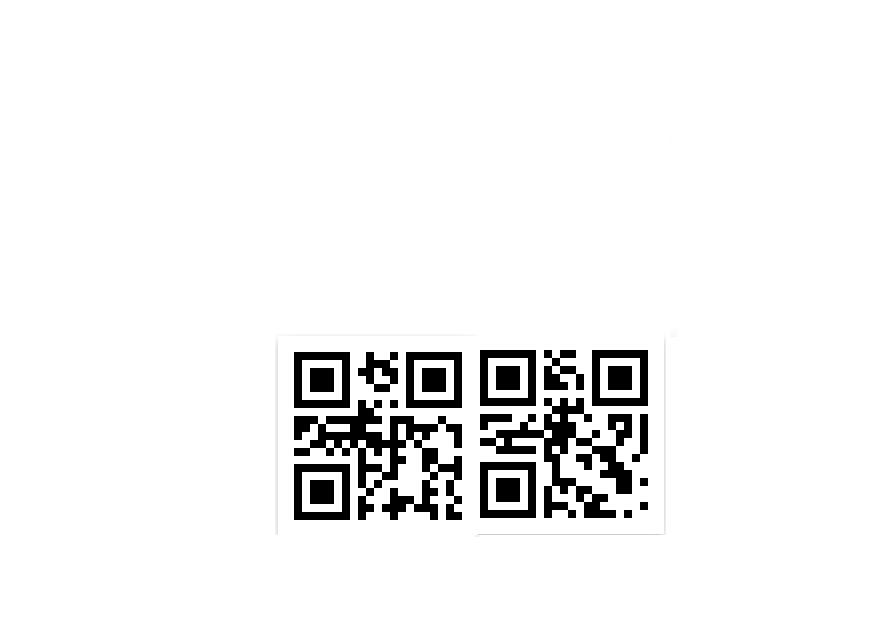
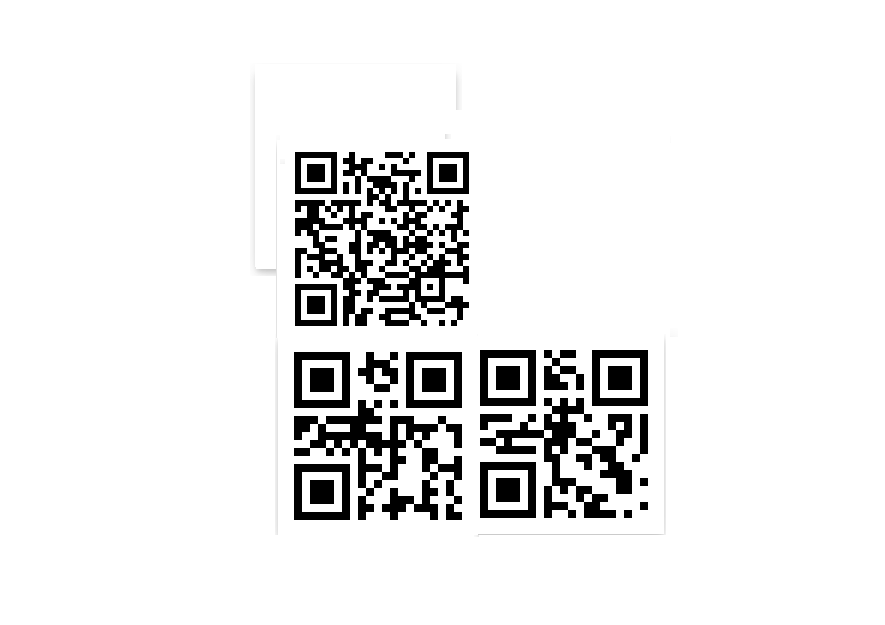
att corrigi verificacao de multiplosqr

Changed region(s): [[0.2746, 0.2432, 0.5492, 0.5472]]

diff --git a/camera.py b/camera.py
@@ -1,10 +1,12 @@
-from collections import namedtuple
+from ctypes import resize
+from os import closerange
 import cv2
+from numpy.core.numeric import isclose
 from pyzbar.pyzbar import decode
 import json
 import numpy as np
 
-banco = [({'end': 0, 'e': 25}, {'p': 1, 'e': 25})]
+banco = ({'end': 0, 'e': 21}, {'p': 10, 'e': 21})
 validado = []
 naoValido = []
 
@@ -26,30 +28,56 @@ def lerqr(x,height,width):
             qr = json.loads(barcodeData)
             qrEnd = 'end' in qr
             qrProd = 'p' in qr
-            if leituraArea: 
-                if qrEnd and qr not in leituraEndereco:
-                    leituraEndereco.append(qr) 
-                elif  qrProd and qr not in leituraProduto and leituraEndereco !=[]:
-                    leituraProduto.append(qr) 
-
-                if qrProd and len(decode(img)) == 1:
-                    leituraEndereco.clear()
-                    validado.clear()
-                elif qrEnd and len(decode(img)) == 1:
-                    leituraProduto.clear()
-                    validado.clear()
-                
-                elif len(decode(img)) == 2:
-                    area.clear()
-                    if len(decode(img)) == 2 and area == []:
-                        print('validado')
-                        valor = (leituraEndereco[0],leituraProduto[0])
-                        return valor
+            if leituraArea:
+                if validado != []:
+                    print(len(decode(img)))
+                    if len(decode(img)) <= 1 or len(decode(img)) > 2:
+                        leituraProduto.clear()
+                        leituraEndereco.clear()
+                        validado.clear()
+                        pass
+                    if validado != []:
+                        leituraProduto.clear()
+                        leituraEndereco.clear()
+                        return validado[0]
                 else:
-                    if qr not in area:
-                        area.append(qr)
-                    if len(area) == len(decode(img)):
-                        return area    
+                    # print(len(leituraEndereco),len(leituraProduto),len(decode(img)),leituraProduto)
+
+                    if qrEnd and qr not in leituraEndereco:
+                        leituraEndereco.append(qr) 
+                    elif  qrProd and qr not in leituraProduto and leituraEndereco !=[]:
+                        leituraProduto.append(qr)
+                    if len(decode(img)) > 2:
+                        if qr not in area:
+                            area.append(qr) 
+                    elif len(decode(img)) <= 2:
+                        print('a',leituraProduto,leituraEndereco)
+                        if qrProd and len(leituraEndereco) != 1:
+                            leituraEndereco.clear()
+                        elif qrEnd and len(leituraProduto) != 1:
+                            leituraProduto.clear()
+                        area.clear()
+                    
+                    if qrProd and len(decode(img)) == 1:
+                        print('Aguardand endereco')
+                        leituraEndereco.clear()
+                        validado.clear()
+                    elif qrEnd and len(decode(img)) == 1:
+                        print('Aguardando Produto!')
+                        leituraProduto.clear()
+                        validado.clear()
+
+                    if len(decode(img)) == 2 and len(leituraEndereco) == 1 and len(leituraProduto) == 1 and area ==[]:
+                        area.clear()
+                        if len(decode(img)) == 2 and area == []:
+                            valor = (leituraEndereco[0],leituraProduto[0])
+                            return valor
+                    else:
+                        print('debug')
+                        if qr not in area:
+                            area.append(qr)
+                        if len(area) == len(decode(img)):
+                            return area    
             else:
                 cv2.rectangle(img, (x, y), (x + w, y + h), (0,0,255), 15)                   
         except:
@@ -58,18 +86,36 @@ while True:
     img = cv2.imread('./img/dirnal.png')
     height, width, channels = img.shape
     result = lerqr(img,height,width)
-    if result:
-        for leitura in decode(img):
+    print(result)
+    
+    for leitura in decode(img):
+        (x, y, w, h) = leitura.rect
+        if result and len(result) == 2 :
+            start_point = (int(width / 8), int(height  / 8))
+            end_point = (int(width / 1.15), int(height / 1.15))
+            leituraArea = x < (end_point[0] - w) and x > start_point[0] and y < (end_point[1] - h ) and y > start_point[1] 
             barcodeData = leitura.data.decode("utf-8")
-            (x, y, w, h) = leitura.rect
-            qr = json.loads(barcodeData)
-            if result[0]['e'] == result[1]['e']:
-                if qr in result:
-                    if 'end' in qr:
-                        cv2.rectangle(img, (x, y), (x + w, y + h), (0,255,0), 15) 
-                    elif 'p' in qr:
-                        cv2.rectangle(img, (x, y), (x + w, y + h), (255,0,255), 15) 
-
+            if leitura:
+                qr = json.loads(barcodeData)
+                if result[0]['e'] == result[1]['e'] and len(result) == 2:
+                    if result not in validado:
+                        validado.append(result)
+                    # print('validado',result)
+                    # print(result == banco)
+                    leituraProduto.clear()
+                    leituraEndereco.clear()
+                    if qr in result:
+                        if 'end' in qr:
+                            cv2.rectangle(img, (x, y), (x + w, y + h), (0,255,0), 15) 
+                        elif 'p' in qr:
+                            cv2.rectangle(img, (x, y), (x + w, y + h), (255,0,255), 15)
+                elif  result[0]['e'] != result[1]['e']:
+                    validado.clear()
+                    leituraProduto.clear()
+                    leituraEndereco.clear()
+                    cv2.rectangle(img, (x, y), (x + w, y + h), (0,0,255), 15)
+        else:
+            cv2.rectangle(img, (x, y), (x + w, y + h), (0,0,255), 15)
 
     cv2.imshow("camera",img)
     key = cv2.waitKey(5)
